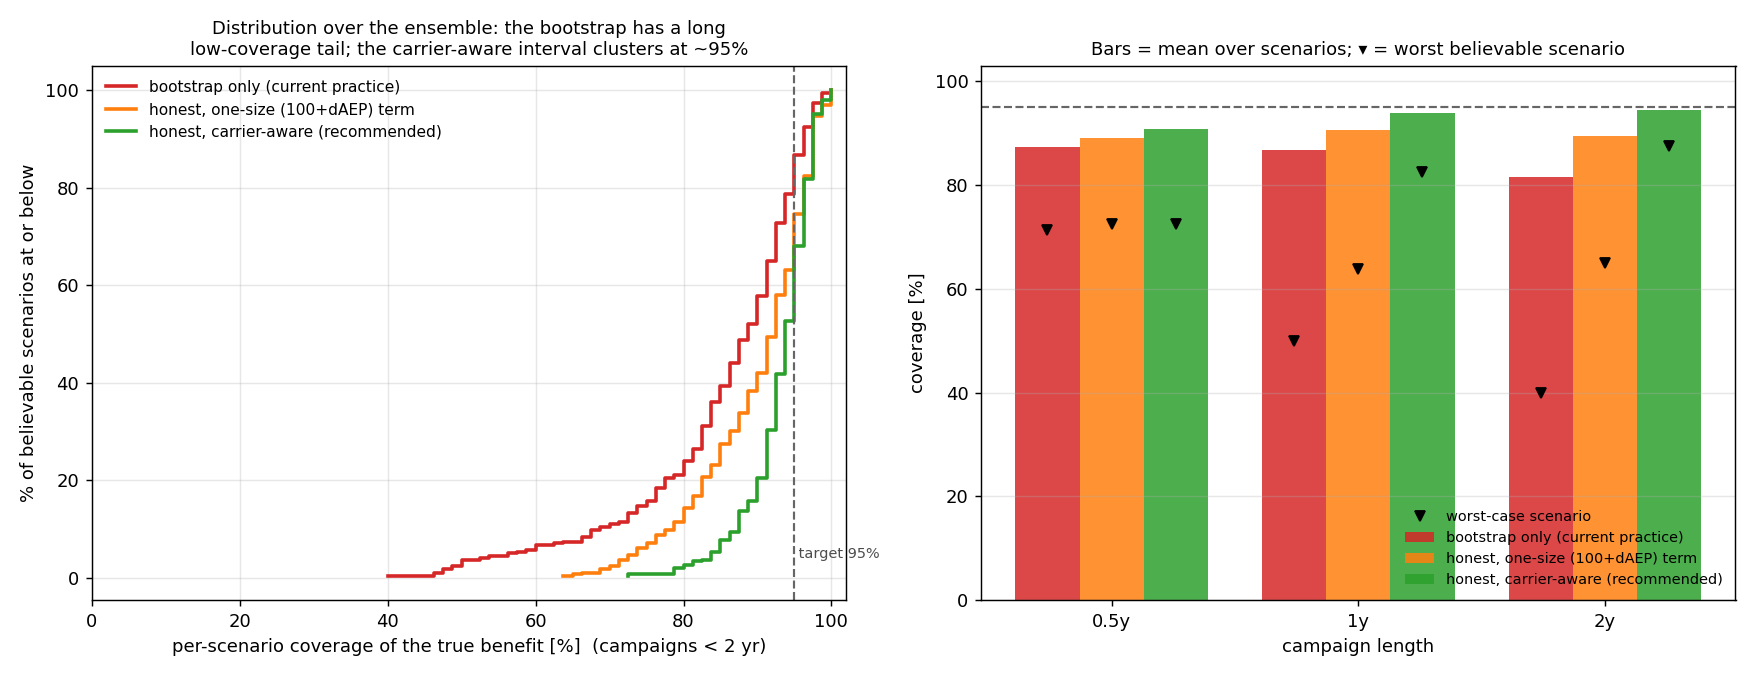
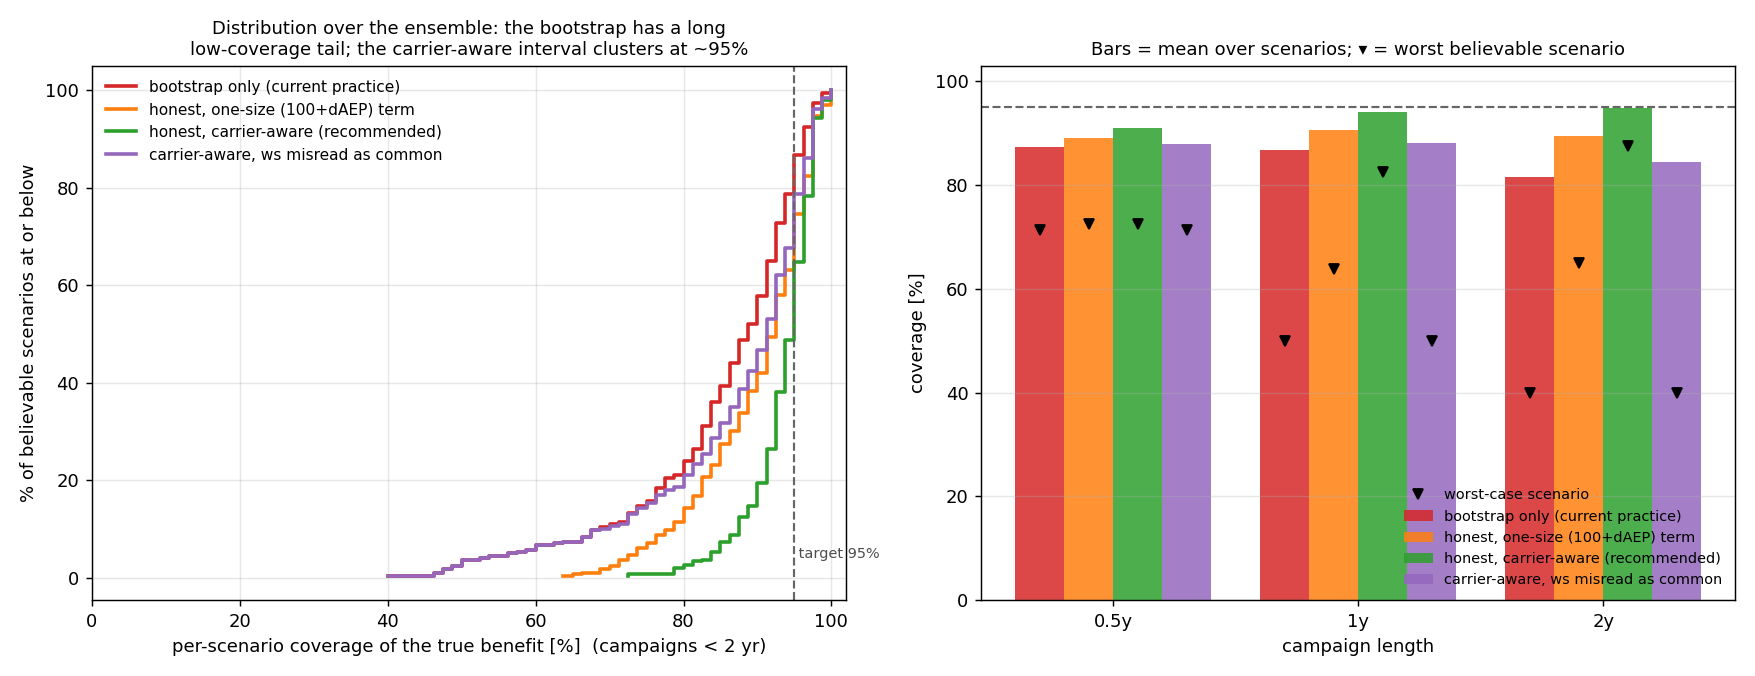
Third-round adversarial-review fixes: plateau-scale ws sensitivity, misattribution stress arm, honest tail statistics
- ws_sensitivity secant now evaluated on the staircase plateau, max(2*sigma_B, 3e-3),
  never below the discreteness knee (old max(sigma_B, 1e-3) under-sized the term for
  small-sigma_B ws scenarios, against the aware technique); scope note (a) corrected
  (range ~203-241, not 'robust physical quantity', direction of the old error stated)
- new 4th arm: carrier-aware with ws misread as common-mode (S=0) -- quantifies the
  misattribution cliff (87/57/40 coverage, 35% worst false-deploy ~= bare bootstrap);
  README framing now conditional on correct carrier ID, unsafe direction named
- placebo table: pooled Wilson 95% rates over all 7440 placebo decisions + null
  reference (perfect calibration shows worst cell 7.5% median over 93 R=80 cells;
  aware's 6.2% is below the null median, not a target breach)
- coverage means reported +-2 MC-SE (scenario-clustered); granularity/min-noise
  quantified next to the tables instead of a qualitative caveat
- sigma_B <= 0.5% band explicitly conditioned on post-NTF-correction residual;
  'worst case' scoped to within-prior-band
- Limitations: season-scrambled sub-year campaigns disclosed (contiguous 6-12 mo
  carries ~1-3.5 pp seasonal representativeness error invisible to all techniques);
  Result 4 bullet 3 no longer attributes the 0.5-yr floor solely to the bootstrap
- What-to-report: plateau-scale finite-difference instruction for practitioners

diff --git a/ensemble.py b/ensemble.py
@@ -10,15 +10,18 @@ the WORST believable case — how well does each uncertainty technique do?
 Each scenario is a believable toggle campaign, drawn independently:
   * wake coefficient k ~ U(0.025, 0.045)      -> true benefit ~ +2 % .. +12 %
     (25 % of scenarios are PLACEBO: no real benefit, true dAEP = 0 exactly);
-  * systematic level sigma_B ~ U(0, 0.5 %)    (0 = well-calibrated; 0.5 % is the
-    believable upper end of a differential calibration error, cf. IEC 61400-12-2
-    / Kanev 2020);
+  * systematic level sigma_B ~ U(0, 0.5 %)    (0 = well-calibrated; 0.5 % is a
+    believable upper end for the POST-CALIBRATION RESIDUAL of a differential
+    error. Raw uncorrected yaw-dependent nacelle-anemometer biases are
+    multi-percent, so this band assumes a yawed-NTF correction has been applied;
+    "worst case" below means worst WITHIN this prior band. A wider band makes
+    bootstrap-only strictly worse and leaves carrier-aware calibrated.);
   * physical carrier ~ {ON-only power 0.4, ws / yaw-transfer 0.4, common 0.2}
     (common-mode cancels in the toggle; the two differential carriers are the
     ones that can bite);
   * random scatter sigma_A ~ U(1.5 %, 3.5 %) i.i.d.
 
-Three techniques, all given the true sigma_B (so the ONLY thing that varies
+Four techniques, all given the true sigma_B (so the ONLY thing that varies
 between them is how the Type-B term is built — this isolates the technique, not
 the prior; sigma_B misspecification is covered separately in Result 3):
   1. bootstrap only        — current field practice (Type-A only)
@@ -28,6 +31,12 @@ the prior; sigma_B misspecification is covered separately in Result 3):
                               carrier's sensitivity (100+dAEP for ON-only power,
                               the propagated bin-migration sensitivity for ws,
                               ~0 for common-mode)
+  4. carrier-aware, ws misread as common — technique 3 after the single most
+                              dangerous attribution error: calling a
+                              differential ws systematic "common-mode" (S=0),
+                              which silently reverts to the bare bootstrap
+                              interval. Result 3 stresses a mis-SIZED sigma_B;
+                              only this arm stresses a mis-IDENTIFIED carrier.
 
 Reported per campaign length and pooled over < 2 yr:
   * coverage of the true benefit  (target 95 %): mean, worst-case (min) and the
@@ -67,7 +76,13 @@ def scenario_powers(kval, placebo):
 
 
 def ws_sensitivity(pon, poff, sig):
-    """|dDAEP/db| for the ws (bin-migration) carrier on this scenario's powers."""
+    """|dDAEP/db| for the ws (bin-migration) carrier on this scenario's powers.
+
+    The bin-migration response est(b) is a STAIRCASE in b: below a scale of
+    ~3e-3 a central secant sits under the discreteness knee and understates the
+    slope at the coverage-relevant realized bias (|b| ~ 2 sigma_b), by up to
+    ~2x at very small scales. Callers must evaluate on the plateau — pass
+    max(2*sigma_b, 3e-3), never a tiny scale (typeB_levels.py uses 5e-3)."""
     p = np.where(_ON0, pon, poff)
 
     def est_at(bb):
@@ -87,7 +102,9 @@ for s in range(N_SCEN):
     carrier = CARRIERS[srng.choice(3, p=CARRIER_P)]
     sig_a = srng.uniform(0.015, 0.035)
     pon, poff, true = scenario_powers(kval, placebo)
-    S_ws = ws_sensitivity(pon, poff, max(sigma_b, 1e-3))
+    # plateau-scale secant (see ws_sensitivity docstring): 2 sigma_b covers the
+    # realized-bias range, floored at 3e-3 to stay above the discreteness knee
+    S_ws = ws_sensitivity(pon, poff, max(2.0 * sigma_b, 3e-3))
     scen.append(dict(placebo=placebo, k=kval, sigma_b=sigma_b, carrier=carrier,
                      sig_a=sig_a, pon=pon, poff=poff, true=true, S_ws=S_ws))
 
@@ -96,7 +113,7 @@ print(f"{N_SCEN} scenarios ({n_pl} placebo / {N_SCEN-n_pl} real), R={R}, B={N_BO
       f"lengths={LS}")
 print("carrier mix:", {c: sum(sc['carrier'] == c for sc in scen) for c in CARRIERS})
 
-TECHS = ["bootstrap", "honest_onesize", "honest_aware"]
+TECHS = ["bootstrap", "honest_onesize", "honest_aware", "aware_wrongc"]
 # coverage[tech][Li] = array over scenarios of per-scenario coverage
 cov = {t: np.full((len(LS), N_SCEN), np.nan) for t in TECHS}
 # false "benefit declared" rate, placebo scenarios only
@@ -126,10 +143,15 @@ for si, sc in enumerate(scen):
             S_aware = np.full(R, sc["S_ws"])
         else:                                          # common-mode cancels -> ~0
             S_aware = np.zeros(R)
+        # misattribution stress arm: the ws carrier misread as common-mode (S=0);
+        # on_only and common are correctly identified, so only the ws->common
+        # direction — the silent reversion to the bare bootstrap — is stressed
+        S_wrong = np.zeros(R) if sc["carrier"] == "ws_carrier" else S_aware
         hw_tech = {
             "bootstrap": hw,
             "honest_onesize": np.hypot(hw, Z * S_onesize * sB),
             "honest_aware": np.hypot(hw, Z * S_aware * sB),
+            "aware_wrongc": np.hypot(hw, Z * S_wrong * sB),
         }
         err = np.abs(est - sc["true"])
         for t in TECHS:
@@ -144,7 +166,8 @@ print(f"done in {time.time()-t0:.0f}s\n")
 # ---- report -----------------------------------------------------------------
 LAB = {"bootstrap": "bootstrap only (current practice)",
        "honest_onesize": "honest, one-size (100+dAEP) term",
-       "honest_aware": "honest, carrier-aware (recommended)"}
+       "honest_aware": "honest, carrier-aware (recommended)",
+       "aware_wrongc": "carrier-aware, ws misread as common"}
 
 
 def agg(a):
@@ -152,12 +175,24 @@ def agg(a):
     return a.mean(), np.percentile(a, 5), a.min()
 
 
+def mean_se(a):
+    """Pooled mean and its MC standard error, clustered at scenario level
+    (cells within a scenario share the drawn k/sigma_B/carrier)."""
+    sm = np.nanmean(a, axis=0)                         # per-scenario mean over lengths
+    sm = sm[~np.isnan(sm)]
+    return sm.mean(), sm.std(ddof=1) / np.sqrt(len(sm))
+
+
 print("COVERAGE of the true benefit [%], target 95 (mean / 5th-pct / worst):")
 for t in TECHS:
     row = "  ".join(f"{L:g}y {agg(cov[t][Li])[0]:.0f}/{agg(cov[t][Li])[1]:.0f}/{agg(cov[t][Li])[2]:.0f}"
                     for Li, L in enumerate(LS))
     m, p5, mn = agg(cov[t])                            # pooled < 2 yr
-    print(f"  {LAB[t]:38s} | {row}  | <2y {m:.0f}/{p5:.0f}/{mn:.0f}")
+    _, se = mean_se(cov[t])
+    print(f"  {LAB[t]:38s} | {row}  | <2y {m:.0f}(+-{2*se:.0f})/{p5:.0f}/{mn:.0f}")
+print(f"  (per-cell granularity 100/R = {100.0/R:.2f} pp; 'worst' is the min over "
+      f"{len(LS)*N_SCEN} binomial(R={R}) cells and is biased low by noise alone — "
+      f"read the 5th-pct column as the robust near-worst)")
 
 print("\nFALSE 'benefit declared' rate on PLACEBO scenarios [%], target <=2.5 (mean / worst):")
 for t in TECHS:
@@ -166,8 +201,24 @@ for t in TECHS:
     allf = fpr[t][~np.isnan(fpr[t])]
     print(f"  {LAB[t]:38s} | {row}  | <2y {allf.mean():.1f}/{allf.max():.1f}")
 
+print("\nPOOLED placebo false-declare rate over all placebo campaign-decisions, Wilson 95%:")
+for t in TECHS:
+    rates = fpr[t][~np.isnan(fpr[t])]
+    k = int(round((rates / 100.0 * R).sum())); n = rates.size * R
+    lo, hi = M.wilson(k, n)
+    print(f"  {LAB[t]:38s} | {100.0*k/n:.2f}%  [{lo:.2f}, {hi:.2f}]   (k={k}/{n})")
+# null reference for the max-based 'worst' column: a PERFECTLY calibrated
+# technique (p=2.5% in every cell) still shows a large max over many small-R cells
+_nrng = np.random.default_rng(np.random.SeedSequence([EXP_ID, 777]))
+_ncells = len(LS) * n_pl
+_nmax = _nrng.binomial(R, 0.025, size=(20000, _ncells)).max(axis=1) * 100.0 / R
+print(f"  null reference: perfect calibration still shows worst-case (max over "
+      f"{_ncells} cells, R={R}) median {np.median(_nmax):.1f}%, "
+      f"5-95% [{np.percentile(_nmax, 5):.1f}, {np.percentile(_nmax, 95):.1f}]%")
+
 # ---- figure -----------------------------------------------------------------
-COL = {"bootstrap": "#d62728", "honest_onesize": "#ff7f0e", "honest_aware": "#2ca02c"}
+COL = {"bootstrap": "#d62728", "honest_onesize": "#ff7f0e", "honest_aware": "#2ca02c",
+       "aware_wrongc": "#9467bd"}
 fig, ax = plt.subplots(1, 2, figsize=(13.5, 5.2))
 
 # (a) ECDF of per-scenario coverage pooled over < 2 yr
@@ -184,12 +235,12 @@ ax[0].set_title("Distribution over the ensemble: the bootstrap has a long\n"
 ax[0].legend(fontsize=8.5, loc="upper left"); ax[0].grid(alpha=0.3); ax[0].set_xlim(0, 102)
 
 # (b) mean and worst-case coverage vs length
-x = np.arange(len(LS)); w = 0.26
+x = np.arange(len(LS)); w = 0.2
 for j, t in enumerate(TECHS):
     means = [agg(cov[t][Li])[0] for Li in range(len(LS))]
     worst = [agg(cov[t][Li])[2] for Li in range(len(LS))]
-    ax[1].bar(x + (j - 1) * w, means, w, color=COL[t], alpha=0.85, label=LAB[t])
-    ax[1].plot(x + (j - 1) * w, worst, "v", color="k", ms=6,
+    ax[1].bar(x + (j - 1.5) * w, means, w, color=COL[t], alpha=0.85, label=LAB[t])
+    ax[1].plot(x + (j - 1.5) * w, worst, "v", color="k", ms=6,
                label="worst-case scenario" if j == 0 else None)
 ax[1].axhline(95, ls="--", color=".4", lw=1.2)
 ax[1].set_xticks(x); ax[1].set_xticklabels([f"{L:g}y" for L in LS])

diff --git a/README.md b/README.md
@@ -211,44 +211,64 @@ typical toggle campaign runs **under two years**. So the decision-relevant
 question is: over an ensemble of believable field campaigns — and in the *worst*
 believable case — how well does each technique do? We draw **100 independent
 scenarios** and, at the lengths that actually occur (0.5–2 yr), compare three
-techniques *given the true σ_B* (so only the technique differs, not the prior —
-σ_B misspecification is Result 3's job):
+techniques — plus a misattribution stress arm — *given the true σ_B* (so only
+the technique differs, not the prior — σ_B misspecification is Result 3's job):
 
 - true benefit from the wake coefficient k ~ U(0.025, 0.045) → ΔAEP ≈ +2…+12 %,
   with **25 % placebo** scenarios (no real benefit, true ΔAEP = 0);
-- systematic σ_B ~ U(0, 0.5 %) (0 = well-calibrated; 0.5 % ≈ the believable
-  upper end of a differential calibration error);
+- systematic σ_B ~ U(0, 0.5 %) (0 = well-calibrated; 0.5 % ≈ a believable upper
+  end for the *post-calibration residual* of a differential error. Raw
+  uncorrected yaw-dependent nacelle-anemometer biases are multi-percent, so
+  this band assumes a yawed transfer-function correction has been applied —
+  "worst case" below means worst *within this prior band*. A wider band makes
+  bootstrap-only strictly worse and leaves carrier-aware calibrated, so the
+  ranking is insensitive to the upper end);
 - carrier ~ {ON-only power 40 %, ws/yaw-transfer 40 %, common-mode 20 %};
 - scatter σ_A ~ U(1.5, 3.5 %).
 
 The techniques: **bootstrap only** (current practice); **honest one-size** (add
 z·(100+ΔAEP)·σ_B to *every* campaign — the naive reading of "report a Type-B
-term"); and **honest carrier-aware** (use the *actual* carrier's sensitivity —
+term"); **honest carrier-aware** (use the *actual* carrier's sensitivity —
 100+ΔAEP for ON-only power, the propagated bin-migration sensitivity for ws, ~0
-for common-mode). Carrier-aware assumes you have identified your dominant
-systematic's *channel* (which sensor, applied to which state) and propagated it —
-the everyday work of a measurement-uncertainty budget, not oracle knowledge of
-its size.
+for common-mode); and a **misattribution stress arm** — carrier-aware after the
+single most dangerous identification error, a differential ws systematic
+misread as *common-mode* (S = 0). The stress arm is there because carrier-aware's
+recommendation is **conditional on correctly identifying the carrier**:
+mis-*sizing* σ_B degrades gracefully (Result 3), but calling a differential
+systematic "common-mode" silently reverts the interval to the bare bootstrap.
+Declaring a systematic common-mode is the unsafe direction — when in doubt,
+treat it as differential.
 
 ![ensemble](fig_ensemble.png)
 
-**Coverage of the true benefit (target 95 %), campaigns < 2 yr:**
+**Coverage of the true benefit (target 95 %), campaigns < 2 yr** (mean ± 2·MC-SE,
+scenario-clustered):
 
 | technique | mean | near-worst (5th pct) | worst case |
 |---|---|---|---|
-| bootstrap only (current practice) | 85 % | 57 % | **40 %** |
-| honest, one-size (100+ΔAEP) term | 90 % | 74 % | 64 % |
-| honest, carrier-aware (recommended) | 93 % | 84 % | 72 % |
+| bootstrap only (current practice) | 85 ± 2 % | 57 % | **40 %** |
+| honest, one-size (100+ΔAEP) term | 90 ± 1 % | 74 % | 64 % |
+| honest, carrier-aware (recommended) | 93 ± 1 % | 84 % | 72 % |
+| carrier-aware, *ws misread as common* | 87 ± 2 % | 57 % | 40 % |
 
 **False "benefit declared" on the placebo scenarios (target ≤ 2.5 %):**
 
-| technique | mean | worst case |
+| technique | pooled rate (Wilson 95 %) | worst case |
 |---|---|---|
-| bootstrap only | 6.3 % | **35 %** |
-| honest, one-size | 4.0 % | 18.8 % |
-| honest, carrier-aware | 2.4 % | 7.5 % |
+| bootstrap only | 6.3 % [5.8, 6.9] | **35 %** |
+| honest, one-size | 4.0 % [3.6, 4.5] | 18.8 % |
+| honest, carrier-aware | 2.2 % [1.8, 2.5] | 6.2 % |
+| carrier-aware, *ws misread as common* | 5.6 % [5.1, 6.1] | 35 % |
 
-Three things the ensemble makes plain:
+Read the worst-case column against its *null reference*: a **perfectly
+calibrated** technique still shows a worst cell of 7.5 % (median; 5–95 % range
+6.2–10.0 %), because that column is a max over 93 Binomial(80, 2.5 %) cells.
+Carrier-aware's 6.2 % is *below* the null median — statistically
+indistinguishable from perfect calibration — while one-size (18.8 %) and
+bootstrap (35 %) are impossible under the null (p < 10⁻⁸): the ordering is
+signal, the 6.2 % itself is not a target violation.
+
+Four things the ensemble makes plain:
 
 1. **Current practice is not just imperfect on average, it is unreliable in the
    tail — and gets worse with data.** Bootstrap-only averages 85 % coverage and a
@@ -262,27 +282,48 @@ Three things the ensemble makes plain:
    (64 % coverage / 19 % false-deploy).
 3. **The carrier-aware interval is the only one whose worst case is bounded by
    something other than Type B.** Its floor is the block bootstrap's own
-   small-sample undercoverage at 0.5 yr (~72 %); by 1–2 yr — the heart of the
-   field regime — its worst case is 82–88 % and its false-deploy rate holds at the
-   nominal 2–3 %. Unlike the bootstrap, it *improves* with data.
+   small-sample undercoverage at 0.5 yr (~72 %) — a floor that in a real
+   *contiguous* sub-year campaign would sit lower still for every technique,
+   because of the seasonal-representativeness error the resampling design
+   cannot see (Limitations). By 1–2 yr — the heart of the field regime — its
+   worst case is 82–88 % and its pooled false-deploy rate is 2.2 %
+   [1.8, 2.5], holding the nominal 2.5 %. Unlike the bootstrap, it *improves*
+   with data.
+4. **Carrier identification is the load-bearing input.** The stress arm — a
+   differential ws systematic misread as common-mode — hands back nearly the
+   entire bootstrap pathology: 87 % mean / 40 % worst coverage, 35 % worst
+   false-deploy. Mis-*sizing* σ_B degrades gracefully (Result 3);
+   mis-*identifying* the carrier does not, and the dangerous direction is
+   specifically declaring a differential channel "common-mode" (S = 0, i.e.
+   silently adding nothing).
 
 Two honest scope notes. *(a)* The ws carrier-aware sensitivity is computed once
-per scenario from the *clean* powers (a noise-free finite difference through the
-metric, ~180–240 across scenarios) rather than re-estimated per campaign; it is a
-robust physical quantity, not knowledge of the realized bias, but it is a mild
-idealization in aware's favour. *(b)* "One-size" here means the *smaller* ON-only
+per scenario from the *clean* powers (a noise-free finite difference through
+the metric) rather than re-estimated per campaign — knowledge of the channel,
+not of the realized bias. It is **not** a scale-free physical constant: the
+bin-migration response is a staircase in the bias, and a secant taken below the
+~0.3 % discreteness knee understates the slope by up to ~2×. It is therefore
+evaluated on the plateau, at scale max(2σ_B, 0.3 %), giving **~203–241 across
+scenarios** (median ~223). An earlier draft evaluated the secant at σ_B itself,
+which under-sized the term for small-σ_B ws scenarios — an error *against* the
+aware technique, masked in the tables (≤3 pp) only because the bootstrap width
+dominates the quadrature at < 2 yr. *(b)* "One-size" here means the *smaller* ON-only
 coefficient (~107) applied everywhere — faithful to the naive reading of this
 repo's own recommendation, and the specific error being warned against. A
-*conservative* one-size that used the largest sensitivity (~221) for every
+*conservative* one-size that used the largest sensitivity (~240) for every
 campaign would also bound worst-case coverage — but by over-widening on the
 ON-only and common-mode majority, i.e. trading away power to detect real
 benefits. Carrier-aware's edge is *right-sizing* (not over-widening), which the
 mean/power side of the table would show more directly than coverage alone.
 
-(100 scenarios × 80 campaigns × 3 lengths, shared B = 400 bootstrap. Every
-distributional choice above is disclosed and tunable at the top of `ensemble.py`;
-the single-scenario "worst case" is a Monte-Carlo estimate, so read the 5th-pct
-column as the robust near-worst.)
+(100 scenarios × 80 campaigns × 3 lengths, shared B = 400 bootstrap — the
+smallest MC budget in the repo, hence the explicit uncertainty statements:
+per-cell granularity is 100/80 = 1.25 pp, and the single-scenario "worst case"
+is a min/max over 300 (93 placebo) binomial cells, biased outward by noise
+alone by several pp. Read the 5th-pct column (coverage) and the pooled Wilson
+rate (placebo) as the robust tail statistics; the worst-case column is there
+for the mechanism, not the digit. Every distributional choice above is
+disclosed and tunable at the top of `ensemble.py`.)
 
 ## The visual story (`story.py`)
 
@@ -307,7 +348,10 @@ consistent scenario (fixed k, realistic controller, σ_B = 0.5 % ON-only):
    a one-size coefficient:** for an ON-only power gain it is dΔAEP/db = 100 +
    ΔAEP; for a yaw-dependent wind-speed/transfer-function bias it is ~2× larger
    and has no closed form — estimate it by pushing a unit bias through the
-   metric pipeline (`ws_carrier_sensitivity` in `typeB_levels.py`). Result 3
+   metric pipeline (`ws_carrier_sensitivity` in `typeB_levels.py`). The
+   bin-migration response is a *staircase* in the bias, so evaluate the finite
+   difference on its plateau — at a scale of max(2σ_B, ~0.3 %) — never at a
+   tiny scale, where the secant understates the slope by up to ~2×. Result 3
    shows the naive ON-only term leaves the ws carrier under-covered (65 % at
    8 yr); its own sensitivity restores it (94 %).
 3. Or, equivalently: invest in calibrating the differential channels away —
@@ -318,9 +362,15 @@ consistent scenario (fixed k, realistic controller, σ_B = 0.5 % ON-only):
 
 - **One base year, block-resampled.** No interannual variability; the weather
   process satisfies the bootstrap's exchangeability assumptions by
-  construction. Quantitative length-scalings are conditional on this; the
-  qualitative mechanism (Type A shrinks, a constant systematic does not) is
-  not.
+  construction. Sub-year simulated campaigns are additionally
+  *season-scrambled*: uniform block draws give every 0.5-yr campaign full-year
+  climatology (and a 2-yr campaign reuses the same year twice), so a real
+  *contiguous* 6–12-month campaign carries a seasonal representativeness error
+  (order ±1–3.5 pp in ΔAEP over this site's k range) that none of the
+  techniques — bootstrap or honest — can see. Field sub-year coverage is
+  therefore lower than simulated for *all* of them. Quantitative
+  length-scalings are conditional on this; the qualitative mechanism (Type A
+  shrinks, a constant systematic does not) is not.
 - **b is constant for the whole campaign.** A systematic with a ~1-yr
   correlation time would partially average down; the monotone growth assumes
   the error persists (e.g., an uncorrected transfer function, which does).